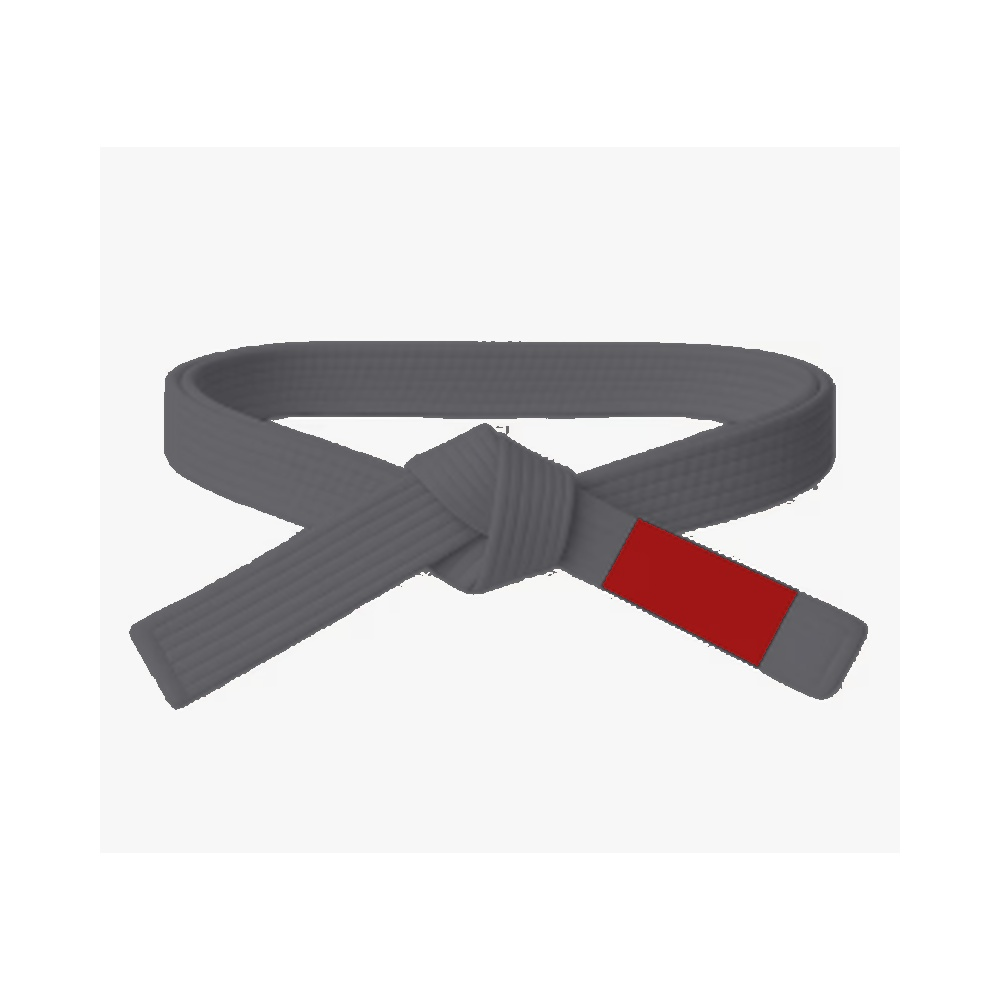
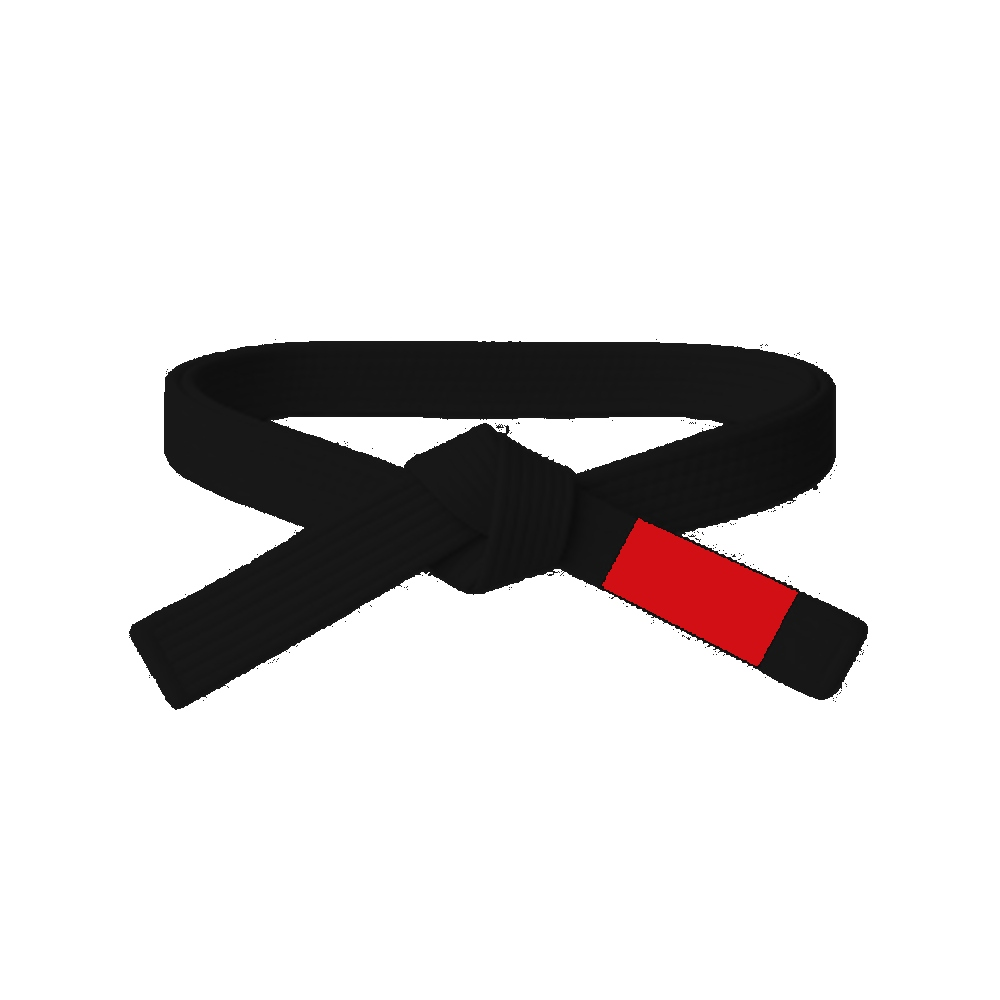
feat(store): add per-color stock management and fix BJJ black belt image

Changed region(s): [[0.124, 0.341, 0.868, 0.713]]

diff --git a/static/js/store.js b/static/js/store.js
@@ -377,6 +377,30 @@
     document.getElementById('editProductOldPrice').value = prod.old_price !== null && prod.old_price !== undefined ? prod.old_price : '';
     document.getElementById('editProductDescription').value = prod.description || '';
 
+    // Render per-color stock section if colors exist
+    const colorSection = document.getElementById('editColorStockSection');
+    const colorGrid = document.getElementById('editColorStockGrid');
+    if (colorSection && colorGrid) {
+      colorGrid.innerHTML = '';
+      if (prod.colors && prod.colors.length > 0) {
+        colorSection.classList.remove('hidden');
+        prod.colors.forEach(c => {
+          const item = document.createElement('div');
+          item.className = 'store-form-group';
+          item.innerHTML = `
+            <label for="editColorStock_${c.id}">
+              <span style="display:inline-block;width:10px;height:10px;border-radius:50%;background:${c.hex};margin-right:6px;border:1px solid rgba(255,255,255,0.3);vertical-align:middle;"></span>
+              Estoque (${c.name})
+            </label>
+            <input type="number" min="0" step="1" id="editColorStock_${c.id}" class="edit-color-stock-input" data-color-id="${c.id}" value="${c.stock_quantity !== null && c.stock_quantity !== undefined ? c.stock_quantity : ''}" placeholder="Ex: 5">
+          `;
+          colorGrid.appendChild(item);
+        });
+      } else {
+        colorSection.classList.add('hidden');
+      }
+    }
+
     editModal.classList.remove('hidden');
     document.body.style.overflow = 'hidden';
   }
@@ -418,11 +442,22 @@
       const productId = document.getElementById('editProductId').value;
       const csrfToken = document.querySelector('meta[name="csrf-token"]')?.getAttribute('content') || window.CSRF_TOKEN || '';
 
+      const colorInputs = editForm.querySelectorAll('.edit-color-stock-input');
+      let colorStocks = null;
+      if (colorInputs.length > 0) {
+        colorStocks = {};
+        colorInputs.forEach(input => {
+          const val = input.value.trim();
+          colorStocks[input.dataset.colorId] = val !== '' ? parseInt(val, 10) : null;
+        });
+      }
+
       const rawStock = document.getElementById('editStockQuantity').value.trim();
       const payload = {
         is_sold_out: document.getElementById('editIsSoldOut').checked,
         is_hidden: document.getElementById('editIsHidden').checked,
         stock_quantity: rawStock !== '' ? parseInt(rawStock, 10) : null,
+        color_stocks: colorStocks,
         out_of_stock_text: document.getElementById('editOutOfStockText').value.trim(),
         name: document.getElementById('editProductName').value.trim(),
         badge: document.getElementById('editProductBadge').value.trim(),
@@ -500,6 +535,17 @@
             }
           } else if (hiddenBadge) {
             hiddenBadge.remove();
+          }
+
+          // Update swatches dataset for color stocks
+          if (updated.colors && updated.colors.length > 0) {
+            const swatches = currentEditingCard.querySelectorAll('.store-swatch-dot');
+            swatches.forEach(swatch => {
+              const matchC = updated.colors.find(c => c.id === swatch.dataset.colorId);
+              if (matchC) {
+                swatch.dataset.colorStock = matchC.stock_quantity !== null && matchC.stock_quantity !== undefined ? matchC.stock_quantity : '';
+              }
+            });
           }
 
           // Update Stock Quantity in card footer

diff --git a/templates/loja.html b/templates/loja.html
@@ -143,7 +143,8 @@
                         data-color-img="{{ url_for('static', filename=col.image) }}"
                         data-color-price="R$ {{ '%.2f'|format(col.price)|replace('.', ',') }}"
                         data-color-old-price="{% if col.old_price %}R$ {{ '%.2f'|format(col.old_price)|replace('.', ',') }}{% endif %}"
-                        data-color-badge="{{ col.badge }}">
+                        data-color-badge="{{ col.badge }}"
+                        data-color-stock="{% if col.stock_quantity is not none %}{{ col.stock_quantity }}{% endif %}">
                 </button>
                 {% endfor %}
               </div>
@@ -311,13 +312,18 @@
 
       <div class="store-form-row">
         <div class="store-form-group">
-          <label for="editStockQuantity">Qtd. em Estoque (Unidades)</label>
-          <input type="number" min="0" step="1" id="editStockQuantity" name="stock_quantity" placeholder="Ex: 15 (Opcional)">
+          <label for="editStockQuantity">Qtd. Estoque Geral (Unidades)</label>
+          <input type="number" min="0" step="1" id="editStockQuantity" name="stock_quantity" placeholder="Ex: 15 (Geral)">
         </div>
         <div class="store-form-group" id="outOfStockTextGroup">
           <label for="editOutOfStockText">Texto da Faixa de Esgotado</label>
           <input type="text" id="editOutOfStockText" name="out_of_stock_text" placeholder="ESGOTADO • CHEGARÁ EM BREVE">
         </div>
+      </div>
+
+      <div id="editColorStockSection" class="store-color-stock-section hidden">
+        <h4 class="store-edit-section-title"><i data-lucide="palette"></i> Quantidade em Estoque por Cor</h4>
+        <div id="editColorStockGrid" class="store-color-stock-grid"></div>
       </div>
 
       <div class="store-form-row">

diff --git a/static/css/store.css b/static/css/store.css
@@ -372,6 +372,34 @@
   color: #ff7a49;
 }
 
+/* Per-color Stock Section in Edit Modal */
+.store-color-stock-section {
+  background: rgba(255,255,255,0.03);
+  border: 1px solid rgba(255,255,255,0.08);
+  border-radius: 12px;
+  padding: 16px;
+  margin: 4px 0 8px;
+}
+.store-edit-section-title {
+  font-size: 0.88rem;
+  font-weight: 800;
+  color: #fff;
+  margin-bottom: 12px;
+  display: flex;
+  align-items: center;
+  gap: 8px;
+}
+.store-edit-section-title svg {
+  width: 16px;
+  height: 16px;
+  color: #ff7a49;
+}
+.store-color-stock-grid {
+  display: grid;
+  grid-template-columns: repeat(auto-fill, minmax(140px, 1fr));
+  gap: 12px;
+}
+
 .store-edit-modal-footer {
   display: flex;
   justify-content: flex-end;

diff --git a/store_catalog.py b/store_catalog.py
@@ -415,6 +415,22 @@ def save_store_customization(product_id, data):
     customizations = load_store_customizations()
     if product_id not in customizations:
         customizations[product_id] = {}
+
+    import copy
+    color_stocks = data.pop('color_stocks', None)
+    if color_stocks is not None and isinstance(color_stocks, dict):
+        base_product = next((p for p in STORE_PRODUCTS if p['id'] == product_id), None)
+        existing_colors = customizations[product_id].get('colors')
+        if not existing_colors and base_product and 'colors' in base_product:
+            existing_colors = copy.deepcopy(base_product['colors'])
+        if existing_colors:
+            for c in existing_colors:
+                cid = c.get('id')
+                if cid in color_stocks:
+                    val = color_stocks[cid]
+                    c['stock_quantity'] = int(val) if val is not None and str(val).strip() != '' else None
+            customizations[product_id]['colors'] = existing_colors
+
     customizations[product_id].update(data)
     with open(CUSTOMIZATIONS_FILE, 'w', encoding='utf-8') as f:
         json.dump(customizations, f, ensure_ascii=False, indent=2)
@@ -428,7 +444,16 @@ def get_customized_products(include_hidden=True):
     for p in products:
         pid = p['id']
         if pid in customizations:
-            p.update(customizations[pid])
+            p_custom = copy.deepcopy(customizations[pid])
+            custom_colors = p_custom.get('colors')
+            if custom_colors and 'colors' in p:
+                for base_c in p['colors']:
+                    match_c = next((cc for cc in custom_colors if cc.get('id') == base_c.get('id')), None)
+                    if match_c:
+                        base_c.update(match_c)
+                del p_custom['colors']
+            p.update(p_custom)
+
         p.setdefault('is_sold_out', False)
         p.setdefault('is_hidden', False)
         p.setdefault('stock_quantity', None)

diff --git a/app.py b/app.py
@@ -2751,6 +2751,8 @@ def edit_store_product(product_id):
                 updates['stock_quantity'] = None
         else:
             updates['stock_quantity'] = None
+    if 'color_stocks' in data and isinstance(data['color_stocks'], dict):
+        updates['color_stocks'] = data['color_stocks']
     if 'out_of_stock_text' in data:
         updates['out_of_stock_text'] = str(data['out_of_stock_text']).strip()
     if 'name' in data and str(data['name']).strip():
